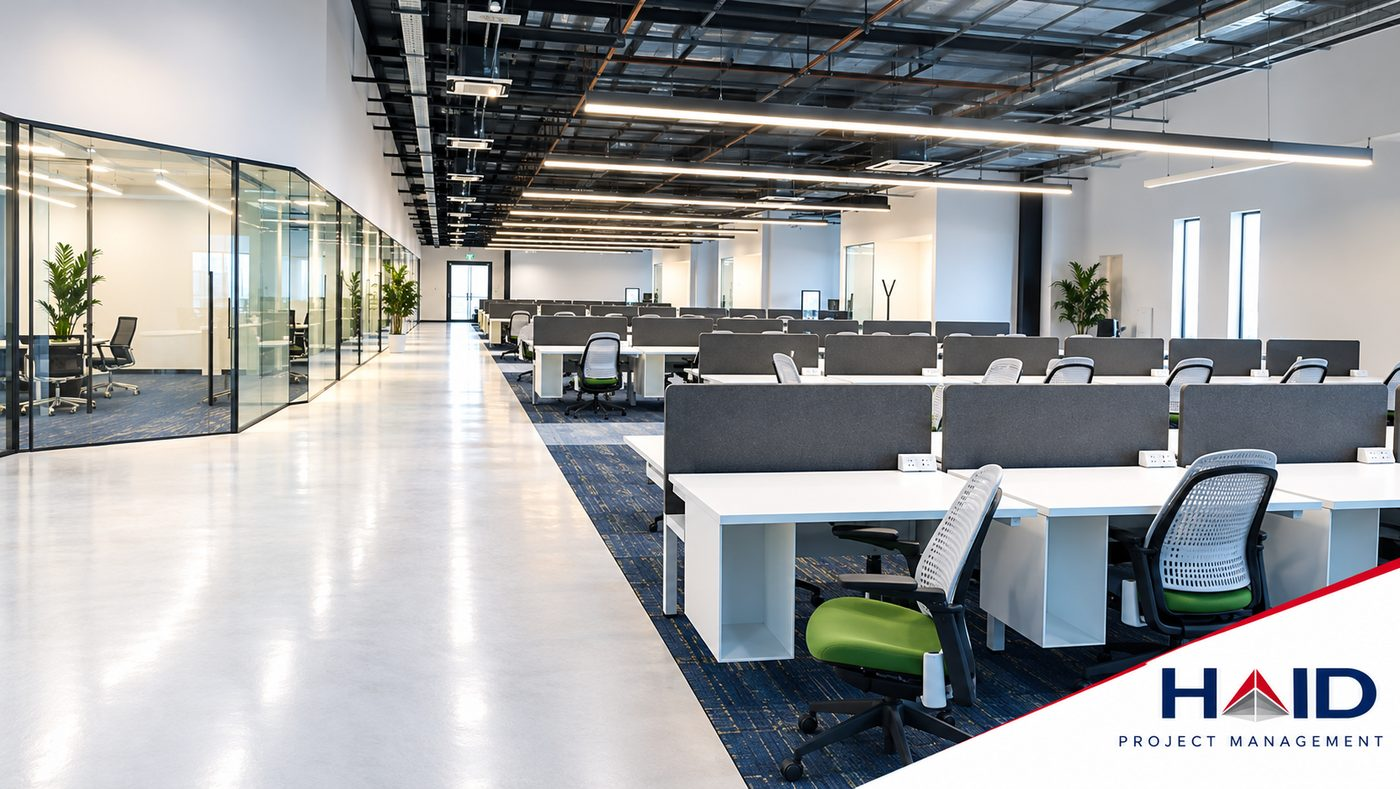
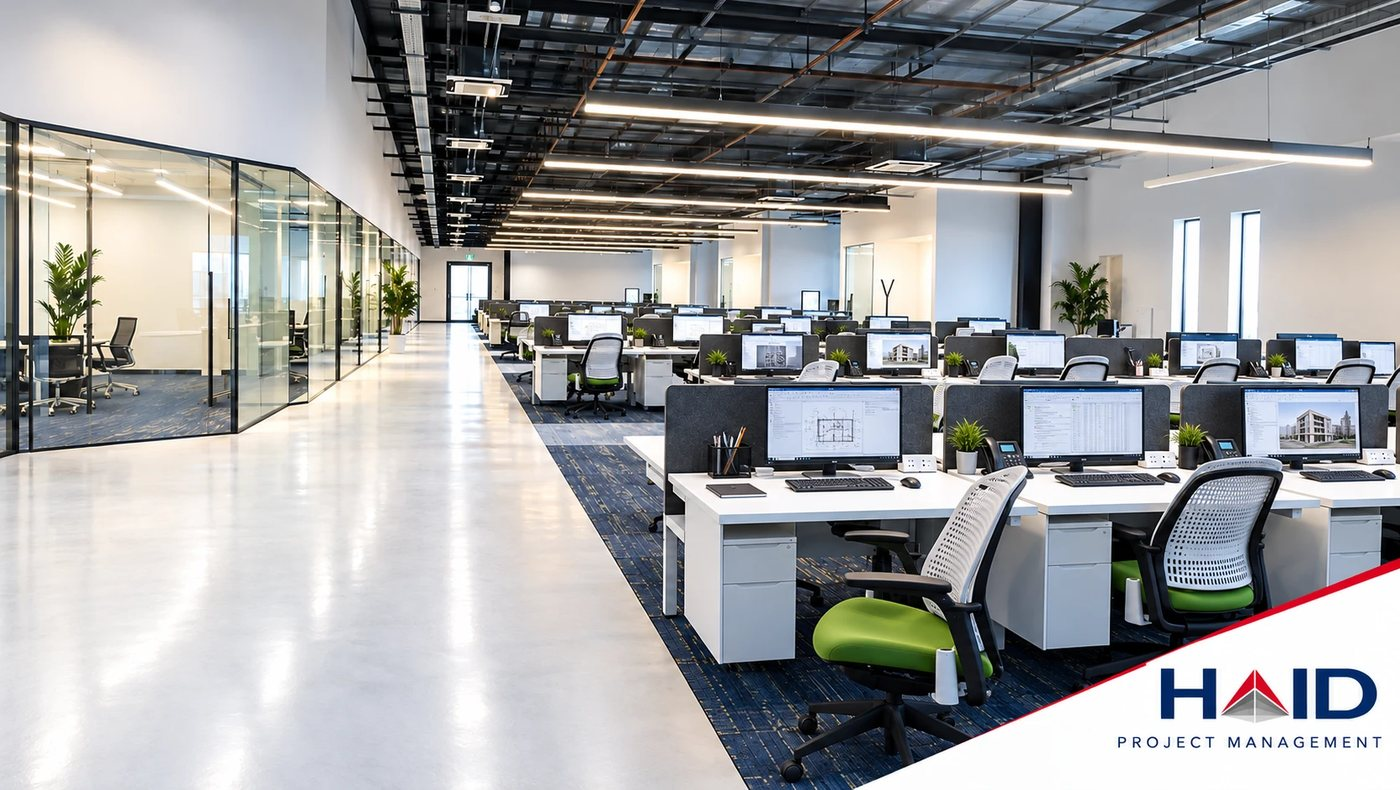
Sectores: nuevas imágenes de Industrial y Oficinas corporativas
Industrial: nave con piso pulido, franjas naranjas y racks. Oficinas:
área abierta con estaciones de trabajo. Ambas traen la franja con el
logo de HAID, igual que el resto de los sectores; se guardan a 1400 px
con metadatos de copyright.

También corrige que la franja cerrada de Residencial mostraba su logo
cortado: el encuadre hacia la esquina del logo ahora solo se aplica
cuando el sector está abierto.

Claude-Session: https://claude.ai/code/session_01PTqhE5hS8kXzdY96w4DNw3

diff --git a/index.html b/index.html
@@ -264,6 +264,7 @@ section{width:100%;}
 .sector-tab-bg{position:absolute;inset:0;background-size:cover;background-position:center;transition:transform 0.55s cubic-bezier(.4,0,.2,1);}
 .sector-tab:hover .sector-tab-bg{transform:scale(1.04);}
 .sector-tab-overlay{position:absolute;inset:0;background:linear-gradient(to top,rgba(10,9,32,0.92) 0%,rgba(10,9,32,0.55) 45%,rgba(10,9,32,0.25) 100%);transition:background 0.4s;}
+.sector-tab.active .bg-logo-rb{background-position:right bottom;}
 .sector-tab.active .sector-tab-overlay{background:linear-gradient(to top,rgba(10,9,32,0.88) 0%,rgba(10,9,32,0.3) 60%,rgba(10,9,32,0.1) 100%);}
 .sector-tab-label{position:absolute;bottom:0;left:0;right:0;padding:1.5rem 1.25rem;transition:all 0.4s;}
 .sector-tab-num{font-family:'Barlow Condensed',sans-serif;font-size:0.7rem;font-weight:700;letter-spacing:3px;color:var(--red);text-transform:uppercase;margin-bottom:0.4rem;opacity:0;transition:opacity 0.3s;}
@@ -942,7 +943,7 @@ footer{background:#1e2d4a;border-top:3px solid var(--red);}
         <div class="sector-tab-bar"></div>
       </div>
       <div class="sector-tab" onclick="activarSector(this)">
-        <div class="sector-tab-bg" style="background-image:url('assets/img/sector-residencial.jpg');background-position:right bottom;"></div>
+        <div class="sector-tab-bg bg-logo-rb" style="background-image:url('assets/img/sector-residencial.jpg');"></div>
         <div class="sector-tab-overlay"></div>
         <div class="sector-tab-label">
           <div class="sector-tab-num">07</div>
